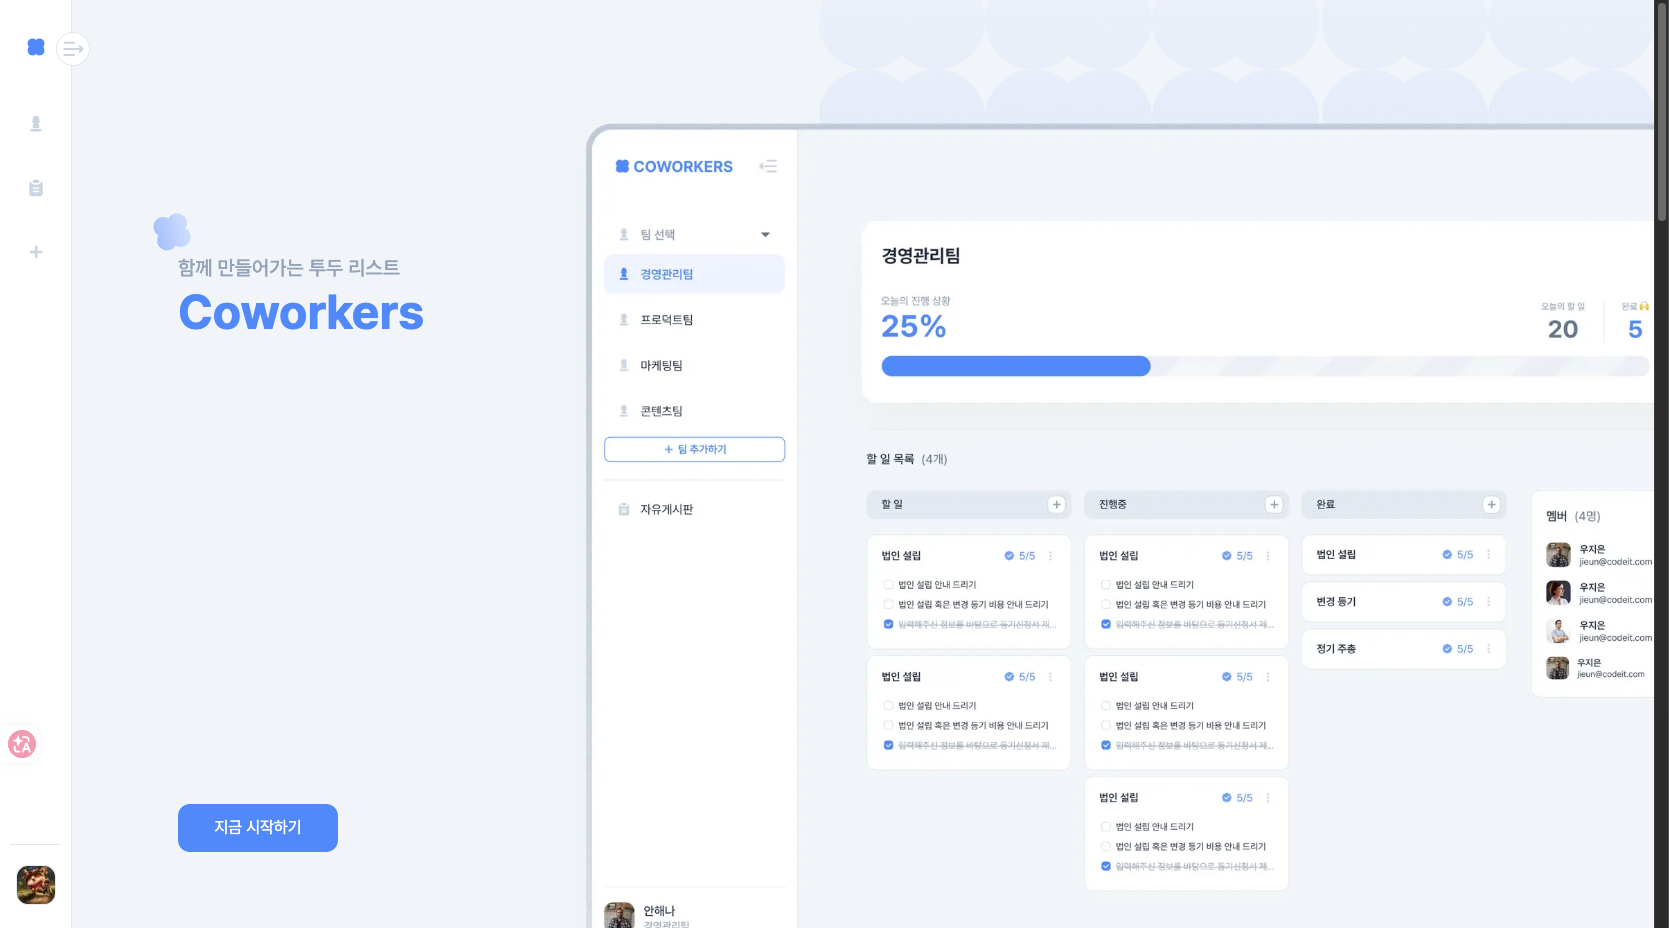
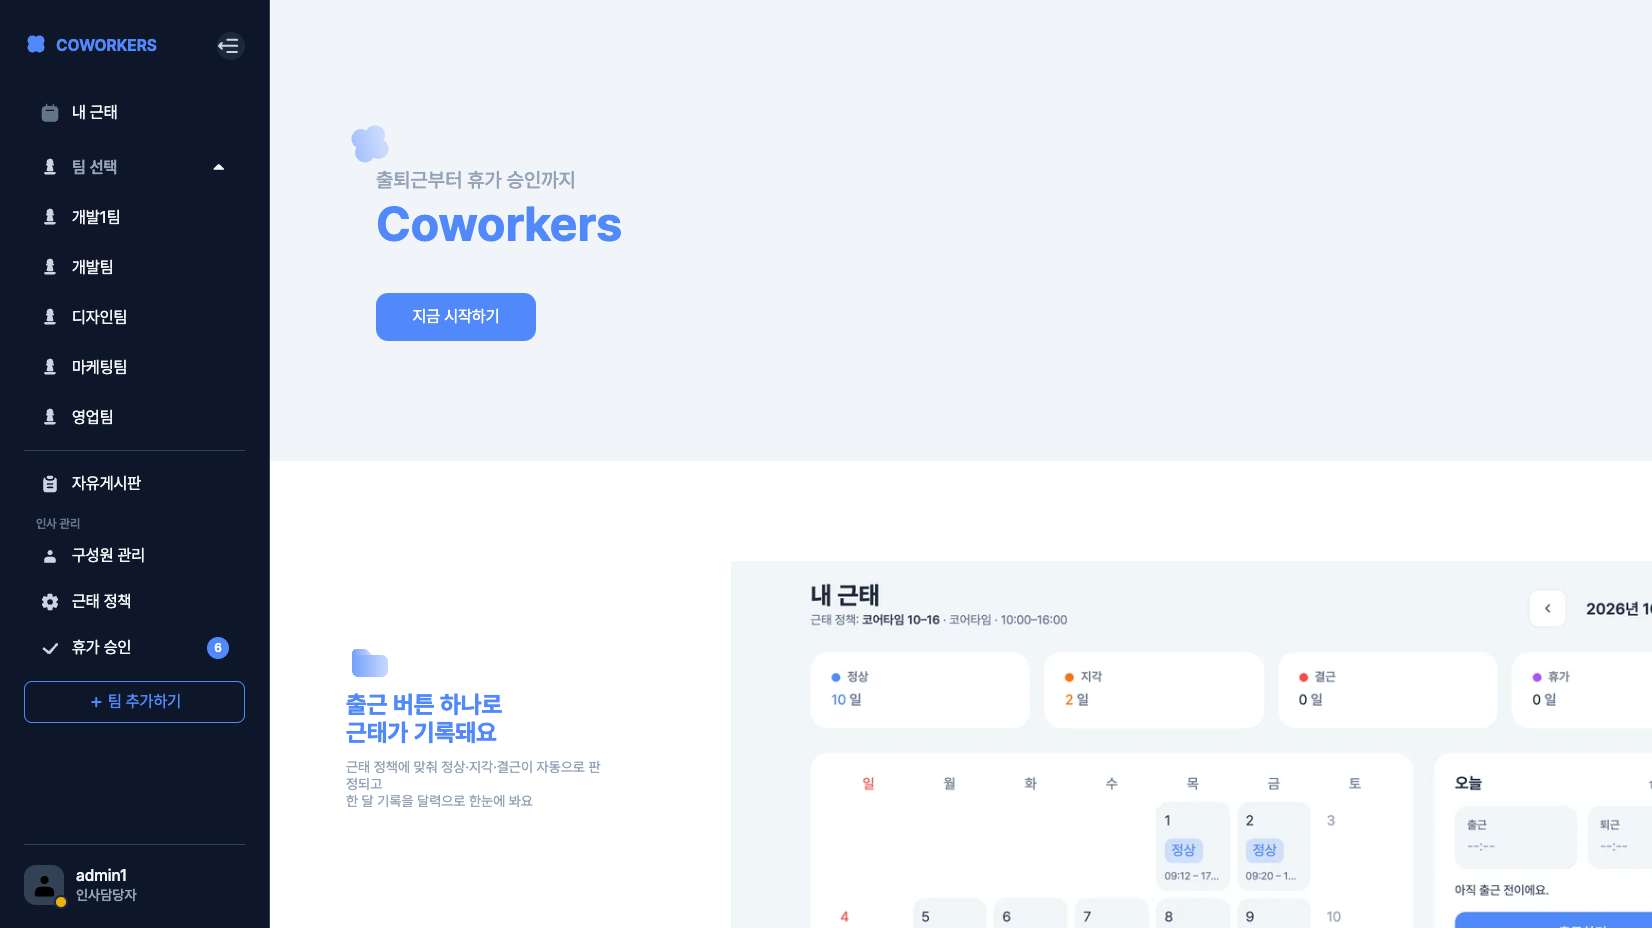
chore: Coworkers 제목·기간 정리와 대표 이미지 교체
- 제목을 Coworkers HR에서 Coworkers로, 기간을 2025.10 ~ 2025.12로
- 대표 이미지를 현재 배포 화면(cwr-one.vercel.app) 캡처로 교체

diff --git a/data/content.ts b/data/content.ts
@@ -57,7 +57,7 @@ export type Project = {
 export const projects: Project[] = [
   {
     slug: "coworkers",
-    title: "Coworkers HR",
+    title: "Coworkers",
     summary:
       "팀 협업 툴을 근태·휴가 HR 서비스로 확장 (팀 프로젝트 FE 팀장 → 1인 리팩토링)",
     tags: [
@@ -68,11 +68,11 @@ export const projects: Project[] = [
       "Playwright",
       "Sentry",
     ],
-    period: "2025.10 ~ 2025.12 · 2026.10 ~ (HR 전환)",
+    period: "2025.10 ~ 2025.12",
     link: "https://cwr-one.vercel.app",
     repo: "https://github.com/SanginJeong/cwr",
     device: "laptop", // 노트북 목업으로 표시 (가로 캡처)
-    image: "/projects/coworkers.png", // TODO: HR 전환 후 화면(내 근태·구성원 관리)으로 교체
+    image: "/projects/coworkers.png",
     details: [
       {
         label: "개요",
